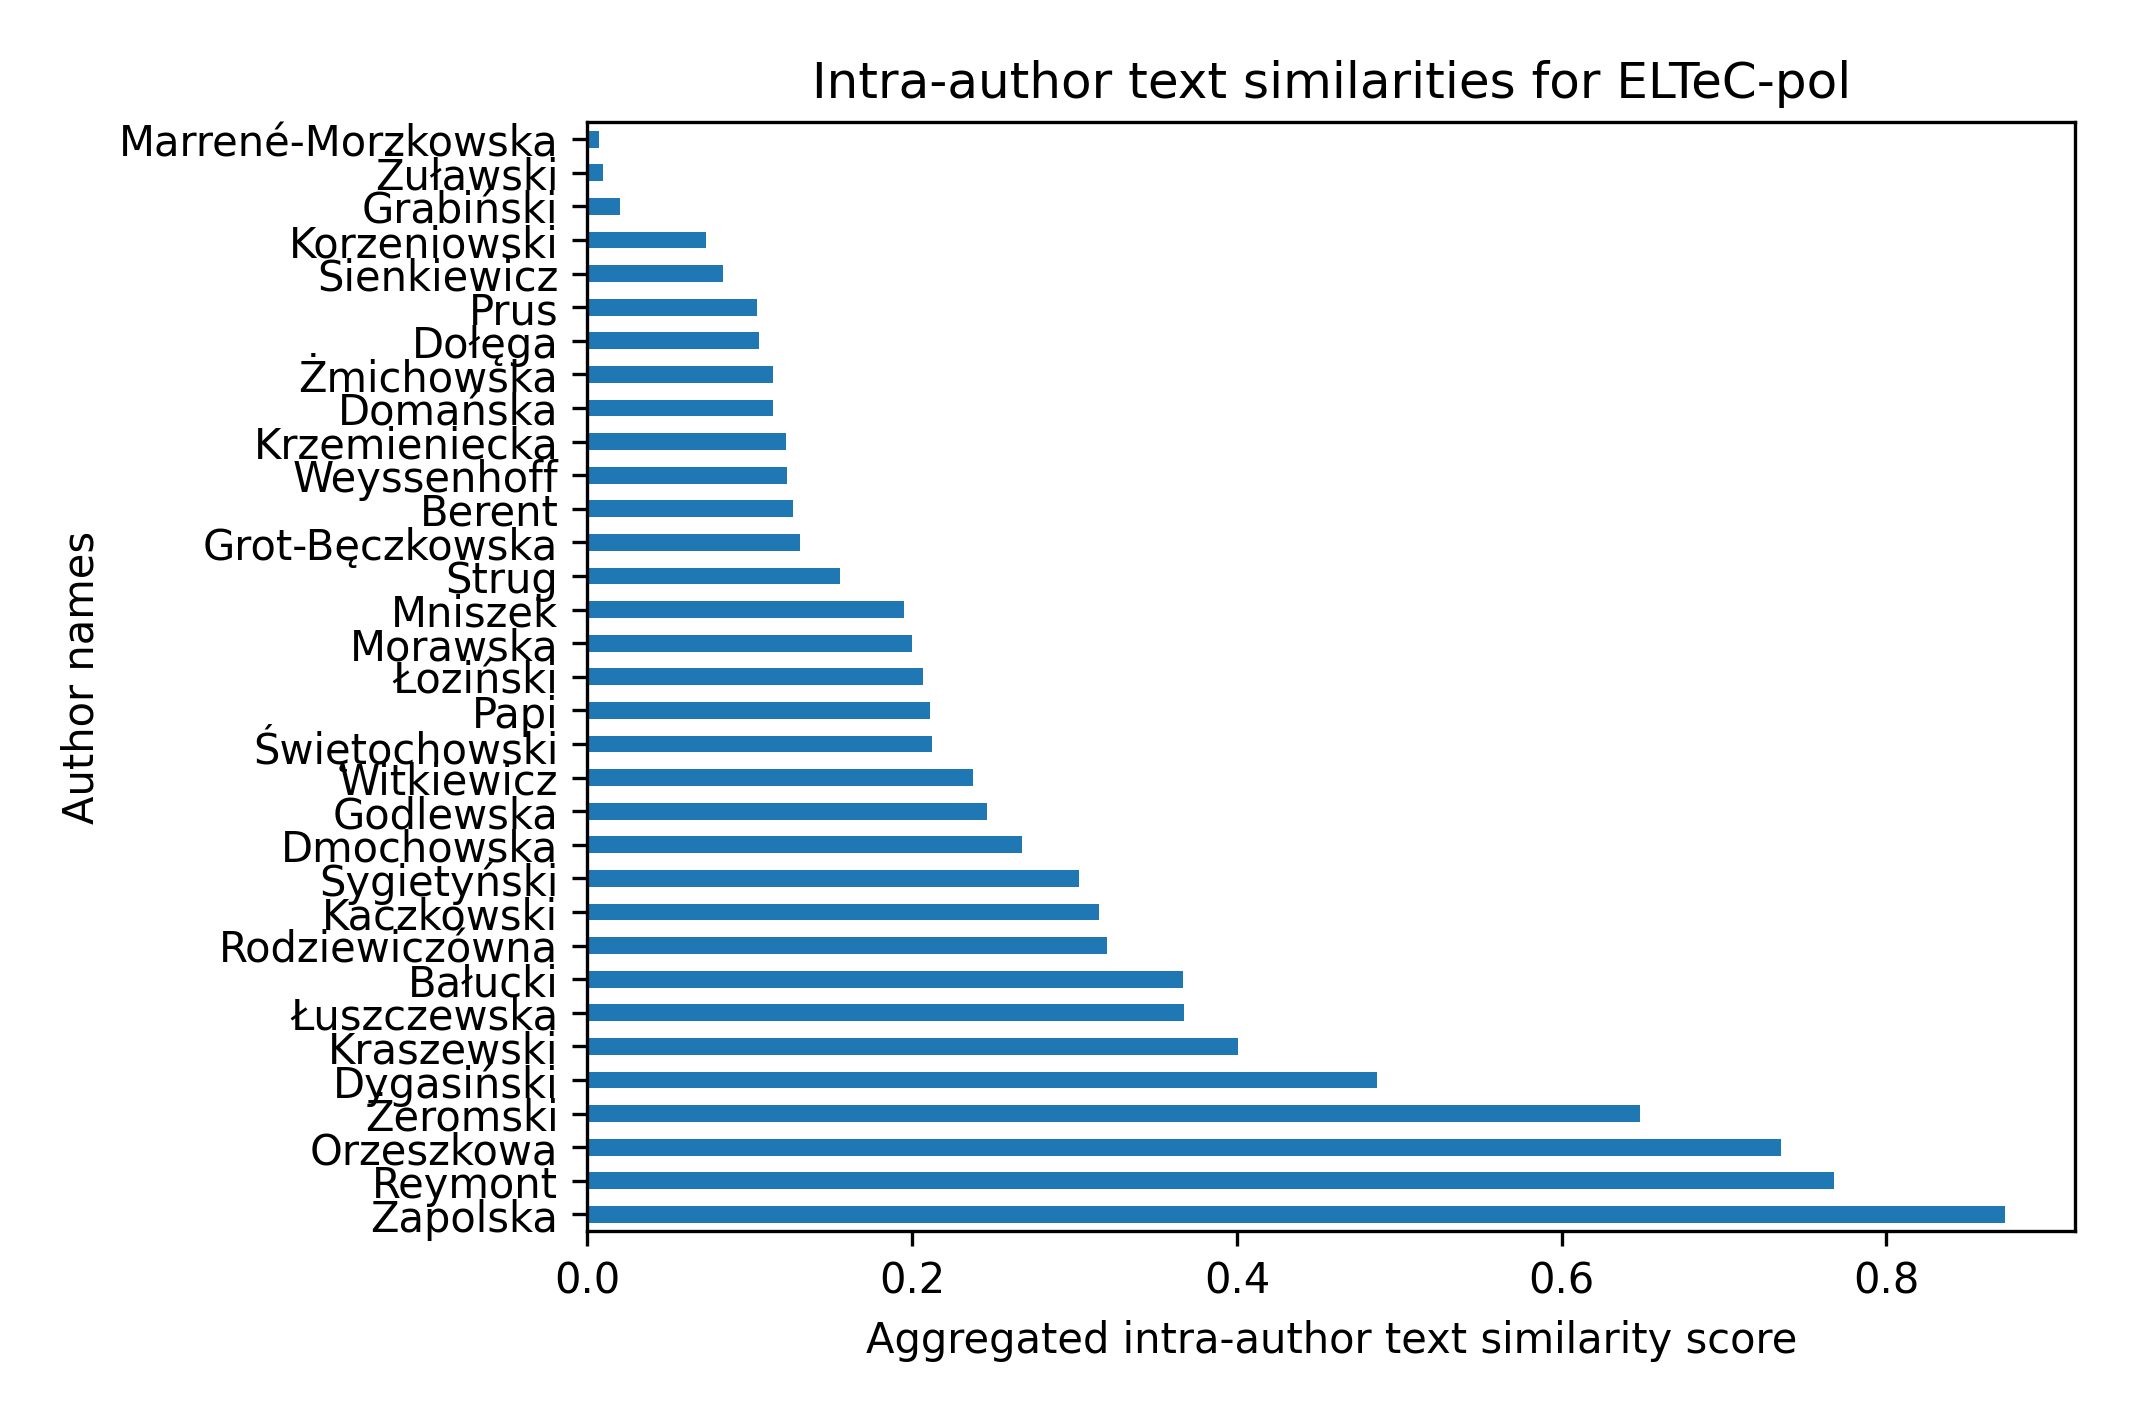
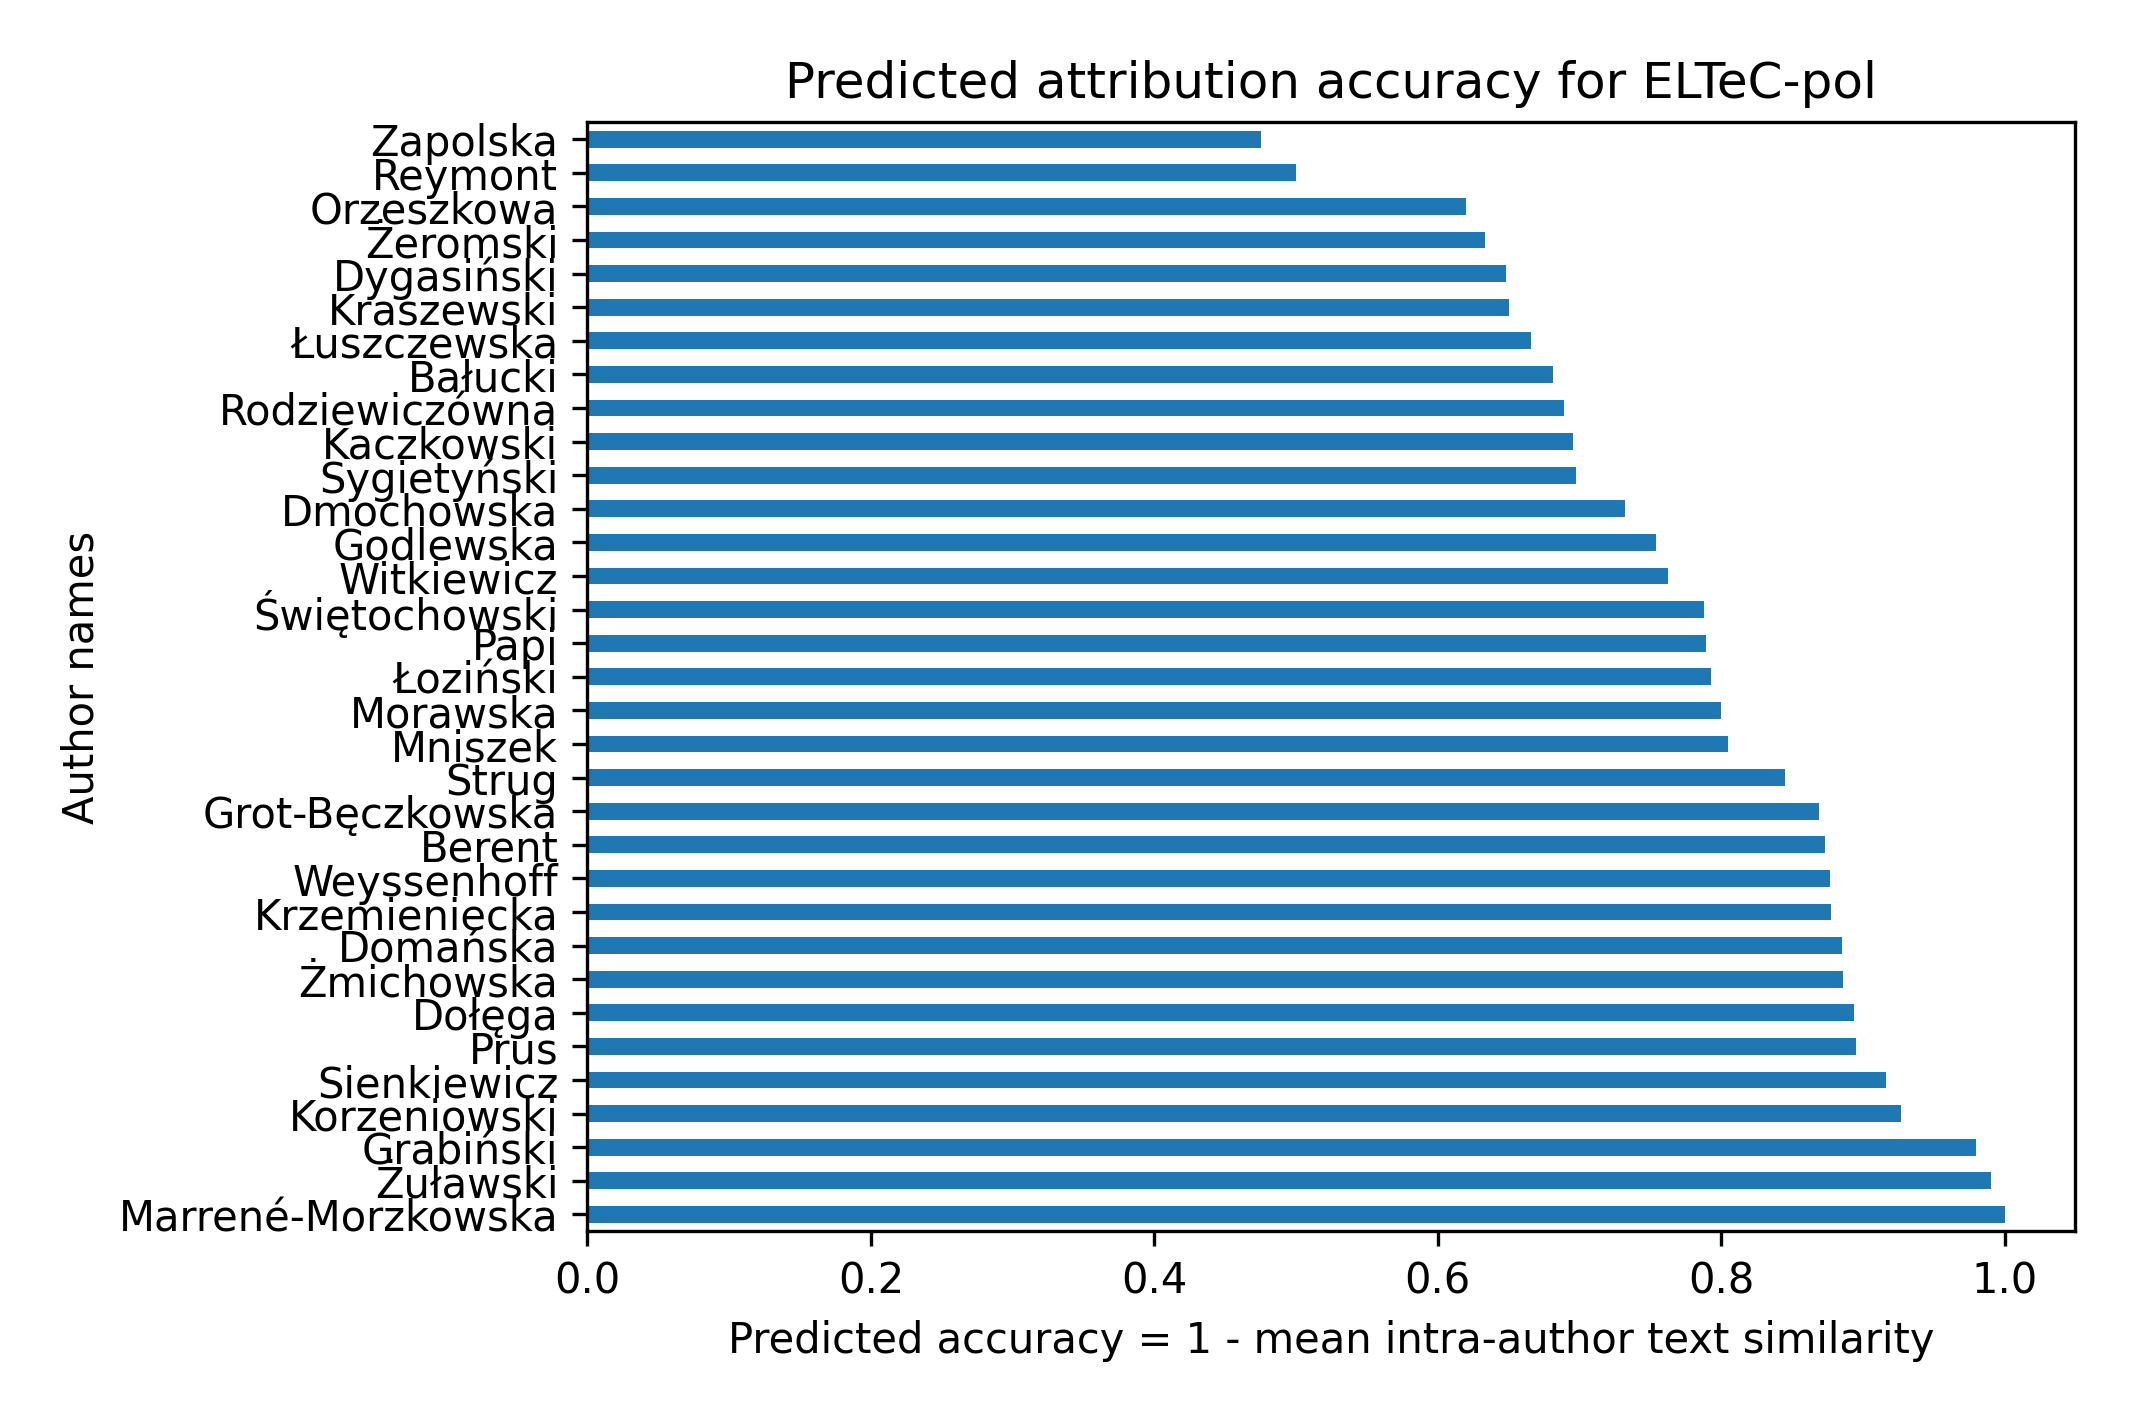
between-author dissimilarities for predicted accuracies

diff --git a/scripts/analyse_metadata.py b/scripts/analyse_metadata.py
@@ -16,6 +16,7 @@ import numpy as np
 import re
 from sklearn import preprocessing as sp
 import matplotlib.pyplot as plt
+import itertools
 
 
 # === Functions === 
@@ -27,15 +28,16 @@ def read_csv(csvfile):
         return metadata
 
 
-def get_variability(metadata): 
+def get_author_variability(metadata): 
     """
     For each author in the set, calculate a score that describes
     how much variability there is in the metadata of the 
     different novels by that author. 
     
     The variability will be minimal, if all three novels by a given author
-    have been written in the same timeSlot, have the same reprint count
-    and belong to same size category. It will be maximal if each novel 
+    have been written in the same timeSlot / published in the same year, 
+    have the same reprint count and belong to same size category / have 
+    very similar lengths in words. It will be maximal if each novel 
     has a different value in each category. 
     
     The idea is that the lower that variance, the higher
@@ -47,9 +49,15 @@ def get_variability(metadata):
     the value 1880 is used as a very rough approximation, as this is 
     the year that is in the middle of the overall period covered by 
     our collections, which is 1840-1920. 
+    
+    Variance is calculated for each category, either by looking at the
+    number of different values (for the categorical values) or at the
+    standard deviation of the values (for the continuous variables), then
+    normalized to a range of 0-1 using a min/max scaler, and aggregated
+    to a single score using an unweighted mean. 
           
     """
-    variability = {}
+    author_var = {}
     metadata = metadata.groupby("authorlabel")
     for name,group in metadata: 
         #print(name)
@@ -66,20 +74,21 @@ def get_variability(metadata):
         var_sizeCat = len(set(group.loc[:,"sizeCat"]))
         var_reprintCount = len(set(group.loc[:,"reprintCount"]))
         var_timeSlot = len(set(group.loc[:,"time-slot"]))
-        variability[name] = [var_yearPub, var_numWords, var_sizeCat, var_reprintCount, var_timeSlot]
-    variability = pd.DataFrame(variability).T
-    variability.columns = ["yearPub", "numWords", "sizeCat", "reprintCount", "timeSlot"]
+        author_var[name] = [var_yearPub, var_numWords, var_sizeCat, var_reprintCount, var_timeSlot]
+    author_var = pd.DataFrame(author_var).T
+    author_var.columns = ["yearPub", "numWords", "sizeCat", "reprintCount", "timeSlot"]
     # Scaling of each column to make values comparable and aggregateable
     scaler = sp.MinMaxScaler()
-    variability = pd.DataFrame(scaler.fit_transform(variability), columns=variability.columns, index=variability.index)
+    author_var = pd.DataFrame(scaler.fit_transform(author_var), columns=author_var.columns, index=author_var.index)
     # Create an aggregate value, here a simple unweighted mean for each author
-    variability["aggregated"] = np.mean(variability, axis=1)
-    variability.sort_values("aggregated", ascending=False, inplace=True)
-    print(variability)
-    return variability
+    author_var["aggregated"] = np.mean(author_var, axis=1)
+    author_var["prediction"] = 1-author_var["aggregated"]
+    author_var.sort_values("prediction", ascending=True, inplace=True)
+    #print(author_var)
+    return author_var
 
 
-def get_colldata(colldata): 
+def get_colldata(lang, metadata, author_var): 
 
     """
     However, the variation between authors comes into play as well. 
@@ -89,9 +98,50 @@ def get_colldata(colldata):
     accuracy for the entire collection should be. 
     
     However, this is true only if the individual value profiles of the
-    authors differ from each other. This is tested in the next function.
+    authors differ from each other. This is also tested in this function.
+    
+    
     """
-    print("empty")
+    one_coll_var = {}
+    # Mean collection-level variability
+    one_coll_var["mean_var"] = np.mean(author_var["aggregated"])
+    
+    # Degree of difference between author metadata profiles    
+    metadata = metadata.groupby("authorlabel")
+    means_timeSlot = []
+    means_sizeCat = []
+    means_reprintCount = []
+    means_yearPub = []
+    means_numWords = []
+    for name,group in metadata: 
+        #print(name)
+        yearPub = []
+        for year in list(group.loc[:,"firsted-yr"]):
+            try: 
+                year = int(re.findall("\d\d\d\d", str(year))[0])
+                yearPub.append(year)
+            except: 
+                yearPub.append(1880)
+        # Calculate means
+        means_yearPub.append(np.mean(yearPub))
+        means_numWords = group.loc[:,"numwords"]
+        num_timeSlot, cat_timeSlot = pd.factorize(group.loc[:,"time-slot"])
+        means_timeSlot.append(np.mean(num_timeSlot))
+        num_sizeCat, cat_sizeCat = pd.factorize(group.loc[:,"sizeCat"])
+        means_sizeCat.append(np.mean(num_sizeCat))
+        num_reprintCount, cat_reprintCount = pd.factorize(group.loc[:,"reprintCount"])
+        means_reprintCount.append(np.mean(num_reprintCount))
+    #print(means_timeSlot)
+    one_coll_var["mean_diffs_yearPub"] = np.mean([abs(e[1] - e[0]) for e in itertools.permutations(means_yearPub, 2)])   
+    one_coll_var["mean_diffs_numWords"] = np.mean([abs(e[1] - e[0]) for e in itertools.permutations(means_numWords, 2)])   
+    one_coll_var["mean_diffs_timeSlot"] = np.mean([abs(e[1] - e[0]) for e in itertools.permutations(means_timeSlot, 2)])   
+    one_coll_var["mean_diffs_sizeCat"] = np.mean([abs(e[1] - e[0]) for e in itertools.permutations(means_sizeCat, 2)])
+    one_coll_var["mean_diffs_reprintCount"] = np.mean([abs(e[1] - e[0]) for e in itertools.permutations(means_reprintCount, 2)])
+    
+    # Make df
+    one_coll_var = pd.Series(one_coll_var, name=lang)
+    #print(one_coll_var, "\n")   
+    return one_coll_var  
     
 
 def save_data(data, datafile): 
@@ -99,32 +149,47 @@ def save_data(data, datafile):
         data.to_csv(outfile, sep="\t")
 
 
-def plot_data(data, lang, datafile): 
-    data.sort_values("aggregated", ascending=False, inplace=True)
-    ax = data["aggregated"].plot.barh(title="Intra-author text similarities for ELTeC-" + lang)
-    ax.set_xlabel("Aggregated intra-author text similarity score")
+def plot_author_data(data, lang, datafile): 
+    data.sort_values("prediction", ascending=False, inplace=True)
+    ax = data["prediction"].plot.barh(title="Predicted attribution accuracy for ELTeC-" + lang)
+    ax.set_xlabel("Predicted accuracy = 1 - mean intra-author text similarity")
     ax.set_ylabel("Author names")
     plt.savefig(datafile[:-4] + ".png", dpi=300, bbox_inches="tight", pad_inches=0.2)
+
+
+def plot_coll_data(coll_var): 
+    coll_var.sort_values("prediction", ascending=False, inplace=True)
+    ax = coll_var["prediction"].plot.barh(title="Predicted attribution accuracy for ELTeC benchmark dataset")
+    ax.set_xlabel("Predicted accuracy = mean between-author similarity")
+    ax.set_ylabel("ELTeC collections")
+    plt.savefig(join("..", "hypotheses", "collection-variability.png"), dpi=300, bbox_inches="tight", pad_inches=0.2)
 
 
 # === Main === 
 
 def main(langs): 
-    colldata = {}
+    coll_var = {}
     for lang in langs: 
         print(lang)
-        metadatafile = join("..", "metadata", lang+"_metadata.tsv")
-        variabilityfile = join("..", "hypotheses", lang+"_variability.tsv")
-        metadata = read_csv(metadatafile)
-        variability = get_variability(metadata)
-        save_data(variability, variabilityfile)
-        plot_data(variability, lang, variabilityfile)
-        #colldata[lang] = sum(variability) / len(variability)
-    #colldata = pd.Series(colldata, name="var-mean")
-    #save_data(colldata, join("..", "hypotheses", "collection-data.tsv"))
+        metadata_file = join("..", "metadata", lang+"_metadata.tsv")
+        author_variability_file = join("..", "hypotheses", lang+"_variability.tsv")
+        metadata = read_csv(metadata_file)
+        author_var = get_author_variability(metadata)
+        save_data(author_var, author_variability_file)
+        plot_author_data(author_var, lang, author_variability_file)
+        coll_var[lang] = get_colldata(lang, metadata, author_var)
+    coll_var = pd.DataFrame(coll_var).T
+    scaler = sp.MinMaxScaler()
+    coll_var = pd.DataFrame(scaler.fit_transform(coll_var), columns=coll_var.columns, index=coll_var.index)
+    coll_var["aggregated"] = np.mean(coll_var, axis=1)
+    coll_var["prediction"] = coll_var["aggregated"] # identical in this case
+    coll_var.sort_values("prediction", ascending=True, inplace=True)
+    save_data(coll_var, join("..", "hypotheses", "collection-variability.tsv"))
+    plot_coll_data(coll_var)
 
 
-langs = ["deu"]
+#langs = ["deu"]
+#langs = ["deu", "fra"]
 langs = ["deu", "eng", "fra", "hun", "nor", "pol", "por", "rom"]
 
 main(langs)

diff --git a/roadmap.md b/roadmap.md
@@ -1,6 +1,6 @@
 ## Roadmap for the project
 
-1. Select all language collections that have at least 9 different authors represented with 3 different novels from ELTeC (that's currently 8 collections), see overview here: https://distantreading.github.io/ELTeC/. (DONE)
+1. Select all language collections that have at least 9 different authors represented with 3 different novels from ELTeC (that's currently 8 collections) to create the ELTeC Authorship Attribution Benchmark Dataset. See overview of ELTeC here: https://distantreading.github.io/ELTeC/. (DONE)
 2. Copy only the XML-files (preferably level-1) over to the corpus folder here that correpond to these authors, separated by language. Each collection should have at least 24 novels in them. (Decide whether to use more if available? Yes, up to 12? Or even more? pol has 33.) (DONE, using all available novels)
 3. Extract the main body text as plain text from these XML files and save into a separate folder; retain original file names. Consider some segmentation of novels into multiple documents (say, 20,000 words each) to increase the number of available instances for sampling (see below). (DONE, segmentation to be done at a later stage, e.g. in step #7) 
 4. Extract metadata from these XML files (xml:id, language, author, title, year of first publication, timeSlot, author-gender, author-birth-year, length class, reprint count, others?) into one big metadata table (metadata.tsv). (DONE, but using separate metadata files for the moment.) 
@@ -14,3 +14,7 @@
 12. With the best mfw parameters for each language, also do a clustering and dendrogram visualization, for visual inspection by experts. 
 13. Discuss results with the domain experts, i.e. the creators of each collection, to develop hypotheses to explain the most common classification errors and the composition of the collection. 
 14. Write it all up, keep data and code here in the repo, submit to JCLS or DH2022. 
+
+## Notes
+1. For the sake of consistency and comparability, the Polish-language collection probably needs to be excluded from the dataset because it is structured quite a bit differently from the other collections, and because metadata pertaining to publication year is missing or not encoded in a standardized way. 
+
